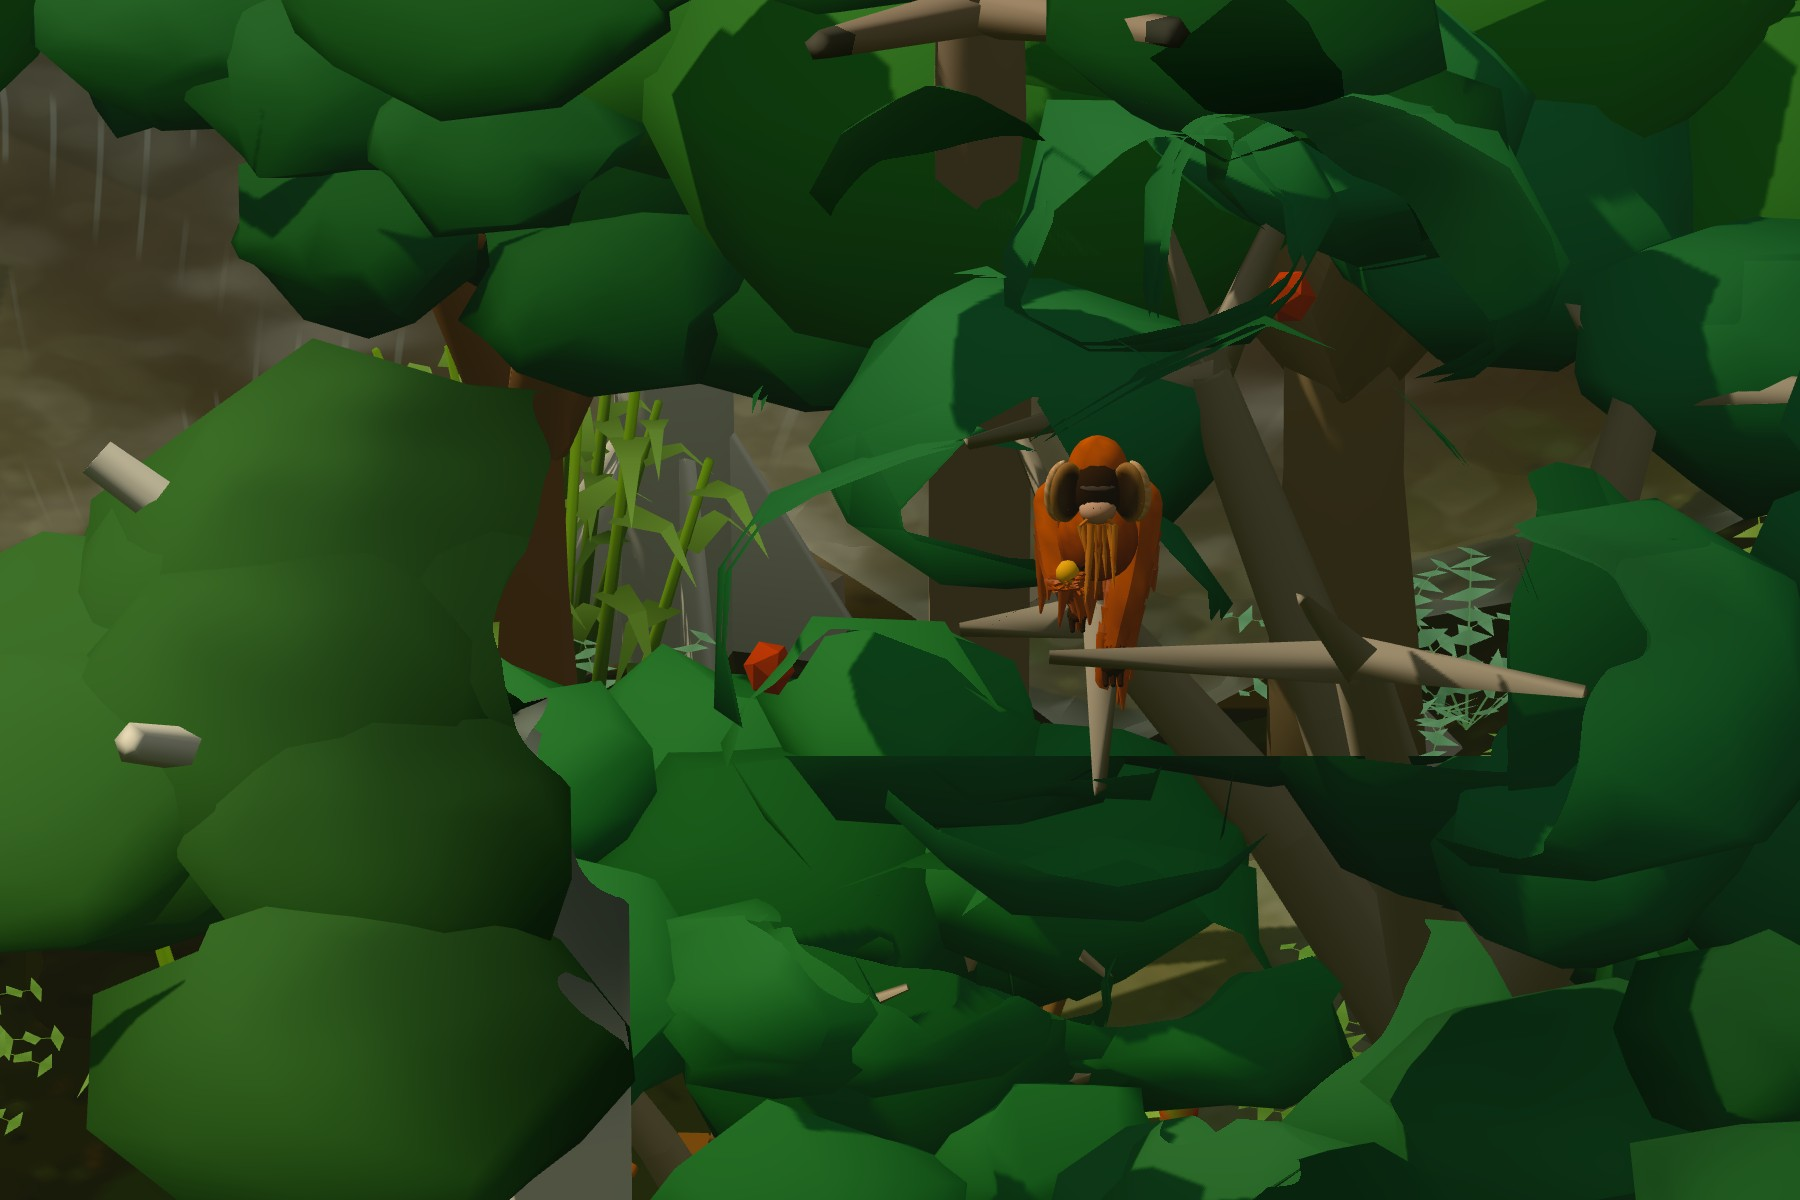
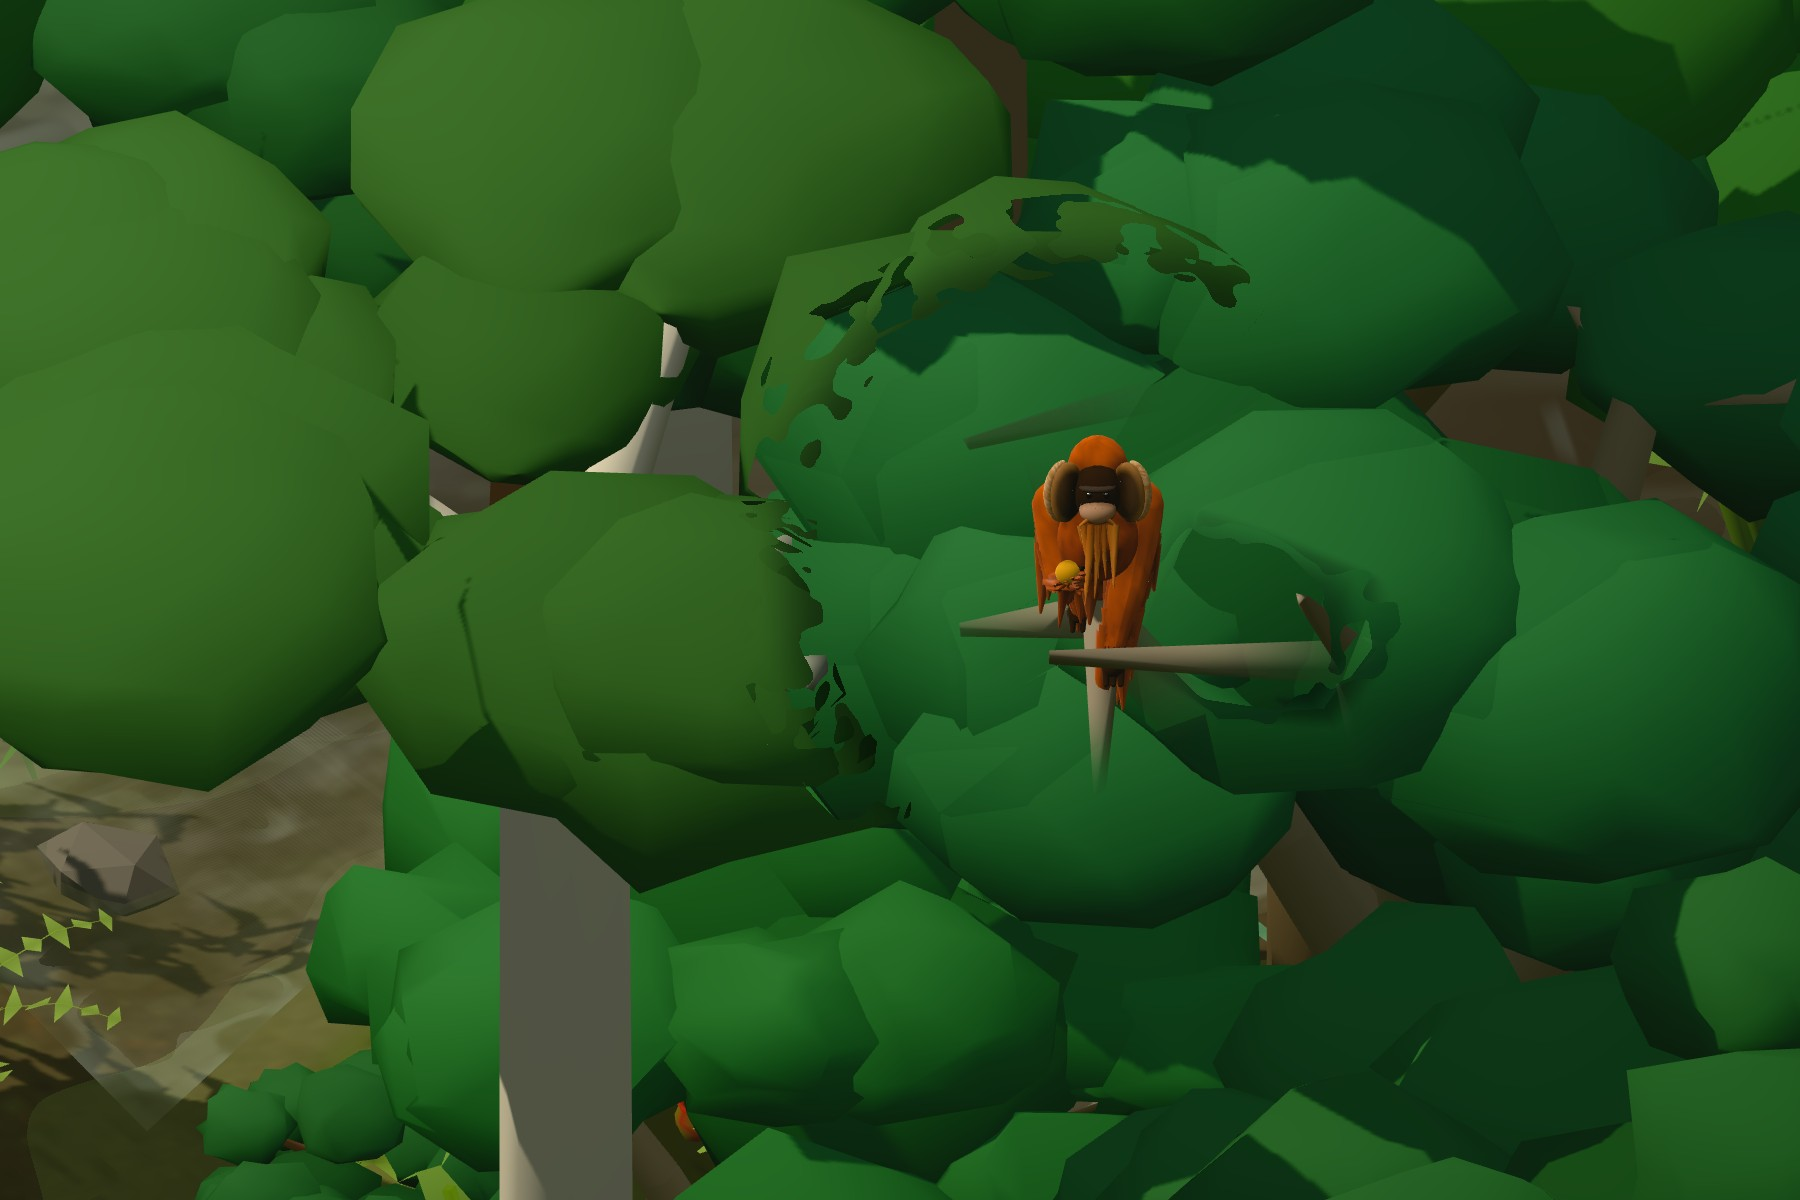
Website: recapture Sumatra with the orangutan on its branch (after 9991ac7)
The keystone still now comes from the current game: the lens draws the
occupied tree's wood, so the orangutan sits on a visible branch. Provenance
records this capture's own revision; the other twelve keep theirs.

diff --git a/AGENTS.md b/AGENTS.md
@@ -71,7 +71,7 @@ New decisions take the next unused number and one line here.
 
 Reference: [PostHog player performance lookups](docs/posthog-player-perf.md).
 
-Website (secondgrowth.earth, `website/`): the plan is [docs/website-plan-2026-11.md](docs/website-plan-2026-11.md). Recapture stills with `tools/capture-site-content.mjs` (then `--maps=<all seven> --moments`) and `tools/capture-header-review.mjs`, under `nice -n 15`; look at each image before keeping it. Sumatra keeps its October still: the November recapture drew ragged canopy cut-outs round the orangutan. `play/?map=<id>` opens the game's start screen on that map (`main.js`); each landscape on the homepage links there. Preview the built site at `http://localhost:8347/dist/website/` after `node tools/website-check.mjs`.
+Website (secondgrowth.earth, `website/`): the plan is [docs/website-plan-2026-11.md](docs/website-plan-2026-11.md). Recapture stills with `tools/capture-site-content.mjs` (then `--maps=<all seven> --moments`) and `tools/capture-header-review.mjs`, under `nice -n 15`; look at each image before keeping it. The tracking lens shows in keystone stills of climbers (Sumatra). The live Sumatra still was captured with the lens fix in 9991ac7 (branch `claude/website-refresh`, not yet on main), which draws the branch through the leaves; recapturing Sumatra without that fix brings back a floating orangutan. The lens's ragged rim on the canopy above is still visible either way. `play/?map=<id>` opens the game's start screen on that map (`main.js`); each landscape on the homepage links there. Preview the built site at `http://localhost:8347/dist/website/` after `node tools/website-check.mjs`.
 
 Performance budget: [2026-10-23 review](docs/performance-review-2026-10-23.md) has where a frame goes, the per-part ceilings for new graphics and simulation, and the open fixes (young climbing primates, daily plant redraw, daily environment update). Measure a new feature with `node tools/play-profile.mjs [maps] [quality] [years]` before and after: an organically grown game through the real frame loop, simulation vs drawing vs GPU.
 
